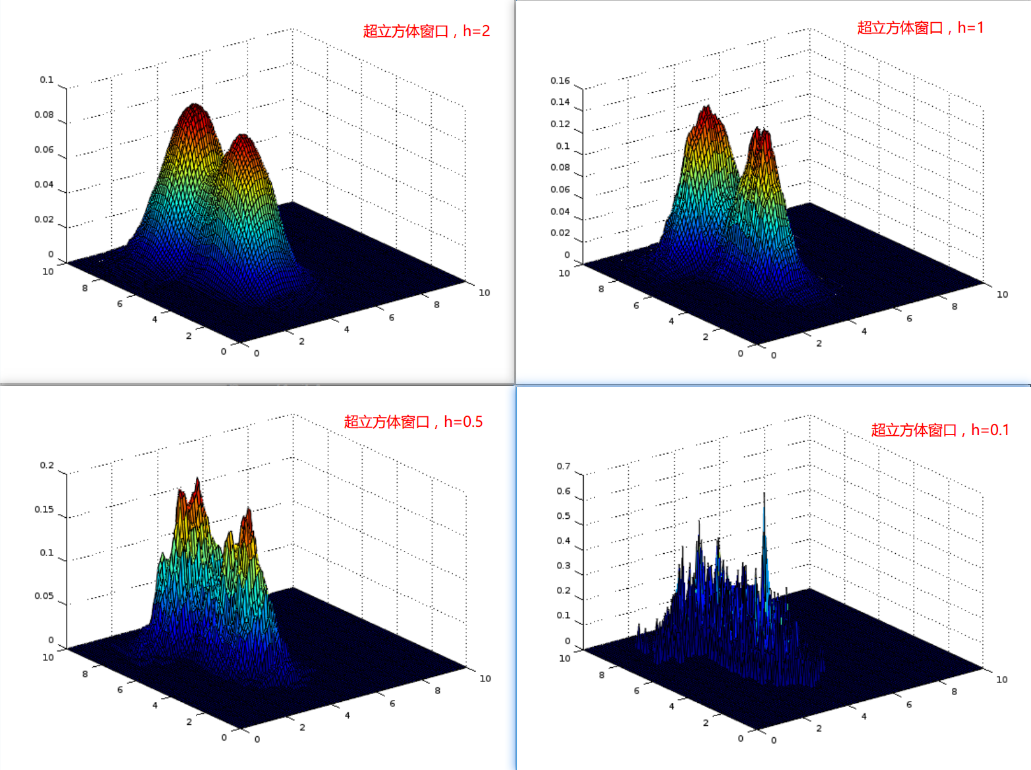
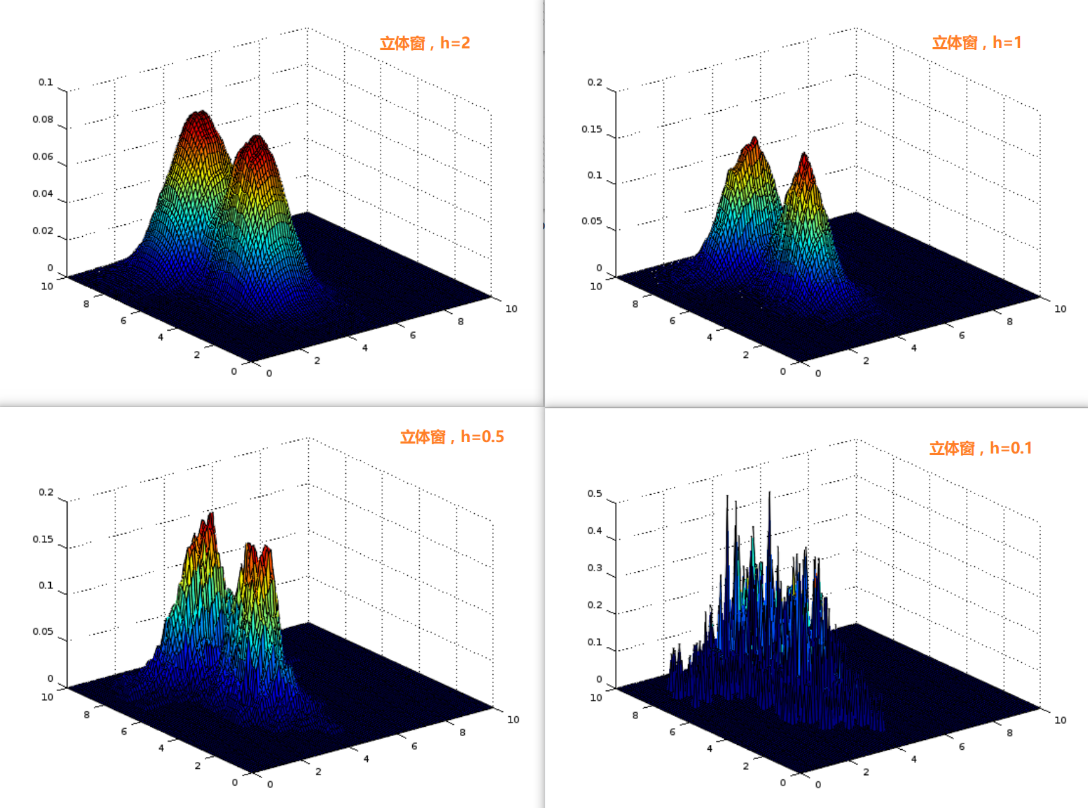
Site updated: 2017-10-08 10:41:41

diff --git a/2017/10/06/Parzen窗估计和Kn近邻估计/index.html b/2017/10/06/Parzen窗估计和Kn近邻估计/index.html
@@ -18,7 +18,7 @@
 <meta property="og:image" content="http://sujunhao.github.io/uploads/data/Parzen_立体.png">
 <meta property="og:image" content="http://sujunhao.github.io/uploads/data/Parzen_高斯.png">
 <meta property="og:image" content="http://sujunhao.github.io/uploads/data/Parzen_分类界面.png">
-<meta property="og:updated_time" content="2017-10-07T10:51:57.373Z">
+<meta property="og:updated_time" content="2017-10-08T02:40:35.649Z">
 <meta name="twitter:card" content="summary">
 <meta name="twitter:title" content="Parzen窗估计和Kn近邻估计">
 <meta name="twitter:description" content="非参数概率密度估计序：概率密度估计即从样本中估计总体的概率密度分布。进行概率密度估计的方法有参数估计与非参数估计。参数估计即在已知总体的分布函数形式的情况下对分布函数参数进行估计。如假如已知一总体呈正态分布，在取得样本的情况下，对总体的概率密度分布的估计就变成对总体的$\mu$ 和 $\sigma^2$ 进行估计。而在未知总体的分布函数形式的情况下，我们可以通过非参数概率密度估计方法对概率密度进行">
@@ -154,27 +154,28 @@
  \end{cases}$$</span><!-- Has MathJax -->
 <p>其中$\mu_j = |x_i - y_i|/h_n$, 则对于每个样本$x_i$，是否落入$x$附近就表达为$\varphi (\frac{x-x_i}{h_n})$，这样$P_n(A) = k/n = \frac{\sum\varphi (\frac{x-x_i}{h_n}) }{ｎ}$。令其等于$V_n \times p_n(x)$即有$p_n = \frac{\sum\varphi (\frac{x-x_i}{h_n}) }{ｎ}/V_n$。</p>
 <p>上式中$\varphi (\mu)$可以视为核函数，这样其便能使用其他核函数进行替代，例如使用高斯核函数。</p>
-<h3 id="Parzen窗函数实现"><a href="#Parzen窗函数实现" class="headerlink" title="Parzen窗函数实现"></a>Parzen窗函数实现</h3><p>窗口函数：$k = \sum\varphi (\frac{x-x_i}{h_n}) $。</p>
-<figure class="highlight plain"><table><tr><td class="gutter"><pre><div class="line">1</div><div class="line">2</div><div class="line">3</div><div class="line">4</div><div class="line">5</div><div class="line">6</div><div class="line">7</div><div class="line">8</div><div class="line">9</div><div class="line">10</div><div class="line">11</div><div class="line">12</div><div class="line">13</div><div class="line">14</div></pre></td><td class="code"><pre><div class="line"># 超立方体窗口</div><div class="line"># data 为 n*d, point 为1*d</div><div class="line">function [z] = w_hypercube(data, point, h_n)</div><div class="line">	u = (data - point) ./ h_n;</div><div class="line">	z = sum(all((abs(u) &lt;= 0.5), 2));</div><div class="line">end</div><div class="line"></div><div class="line"># 高斯窗口</div><div class="line">pkg load statistics;</div><div class="line">function [z] = w_normal(data, point, h_n)</div><div class="line">	[n, d] = size(data);</div><div class="line">	u = (data - point) ./ h_n;</div><div class="line">	z = sum(mvnpdf(u, ones(1, d), eye(d)));</div><div class="line">end</div></pre></td></tr></table></figure>
-<p>Parzen概率密度估计$p_n = \frac{k}{ｎ}/V_n =  \frac{\sum\varphi (\frac{x-x_i}{h_n}) }{ｎ}/V_n$。</p>
+<h3 id="Parzen窗函数实现"><a href="#Parzen窗函数实现" class="headerlink" title="Parzen窗函数实现"></a>Parzen窗函数实现</h3><p>原始的Parzen窗口函数即超立方体窗口是作用在每个样本点上的示性函数，对其进行推广转变为高斯窗口的形式为$\varphi_{\sigma} (\frac{x-x_i}{h_n}) = norm( (\frac{x-x_i}{h_n}), \mu,  \sum)$，其中$norm$为多元高斯概率分布函数，其中$x$的维度为$d$，且$\mu=(0,…,0)^t,  \sum=I_d$ 。</p>
+<p>根据窗口函数可以计算出样本中事件发生的次数$k = \sum\varphi (\frac{x-x_i}{h_n}) $。</p>
+<figure class="highlight plain"><table><tr><td class="gutter"><pre><div class="line">1</div><div class="line">2</div><div class="line">3</div><div class="line">4</div><div class="line">5</div><div class="line">6</div><div class="line">7</div><div class="line">8</div><div class="line">9</div><div class="line">10</div><div class="line">11</div><div class="line">12</div><div class="line">13</div><div class="line">14</div></pre></td><td class="code"><pre><div class="line"># 超立方体窗口</div><div class="line"># data 为 n*d, point 为1*d</div><div class="line">function [z] = w_hypercube(data, point, h_n)</div><div class="line">	u = (data - point) ./ h_n;</div><div class="line">	z = sum(all((abs(u) &lt;= 0.5), 2));</div><div class="line">end</div><div class="line"></div><div class="line"># 高斯窗口</div><div class="line">pkg load statistics;</div><div class="line">function [z] = w_normal(data, point, h_n)</div><div class="line">	[n, d] = size(data);</div><div class="line">	u = (data - point) ./ h_n;</div><div class="line">	z = sum(mvnpdf(u, zeros(1, d), eye(d)));</div><div class="line">end</div></pre></td></tr></table></figure>
+<p>有了$k$值，就可以计算概率密度，因此有Parzen概率密度估计方程$p_n = \frac{k}{ｎ}/V_n =  \frac{\sum\varphi (\frac{x-x_i}{h_n}) }{ｎ}/V_n$。</p>
 <figure class="highlight plain"><table><tr><td class="gutter"><pre><div class="line">1</div><div class="line">2</div><div class="line">3</div><div class="line">4</div><div class="line">5</div><div class="line">6</div><div class="line">7</div><div class="line">8</div><div class="line">9</div><div class="line">10</div></pre></td><td class="code"><pre><div class="line"># Parzen 函数</div><div class="line">#data is [n * d], dimension X number</div><div class="line">#point is [1 * d]</div><div class="line">#h_n is a scale</div><div class="line">function [pd] = parzen (data, point, h_n, f)</div><div class="line">  [n_data, d_data] = size(data);</div><div class="line">  pd = f(data, point, h_n) / (n_data * (h_n^d_data));</div><div class="line">end</div><div class="line"></div><div class="line">##	parzen(XX, [3, 4], 1, @w_hypercube)</div></pre></td></tr></table></figure>
-<h3 id="两类实验数据"><a href="#两类实验数据" class="headerlink" title="两类实验数据"></a>两类实验数据</h3><p>为了讨论Parzen窗函数的表现下面先来生成两类实验数据。</p>
-<figure class="highlight plain"><table><tr><td class="gutter"><pre><div class="line">1</div><div class="line">2</div><div class="line">3</div><div class="line">4</div><div class="line">5</div><div class="line">6</div><div class="line">7</div><div class="line">8</div><div class="line">9</div><div class="line">10</div><div class="line">11</div></pre></td><td class="code"><pre><div class="line">function [x] = create_norm(mu1, sigma1, mu2, sigma2, n)</div><div class="line">x = [normrnd(mu1, sigma1, 1, n); normrnd(mu2, sigma2, 1, n)]&apos;;</div><div class="line">end</div><div class="line"># X1为第一类，X2为第二类，XX为所有数据</div><div class="line"># X1为中心点在(5,4),sigma为(1,0.5),的服从正态分布的数据点，点数量使500</div><div class="line">X1 = create_norm(5, 1, 4, 0.5, 500);</div><div class="line">X2 = create_norm(8, 0.5, 4, 1, 500);</div><div class="line">XX = [X1;X2];</div><div class="line"></div><div class="line"># 画出数据分布</div><div class="line">plot(X1(:,1), X1(:,2), &apos;r+&apos;, X2(:,1), X2(:,2), &apos;ko&apos;);</div></pre></td></tr></table></figure>
+<h3 id="两类实验数据"><a href="#两类实验数据" class="headerlink" title="两类实验数据"></a>两类实验数据</h3><p>为了讨论Parzen窗函数的表现下面先来生成下面两类实验数据。</p>
+<figure class="highlight plain"><table><tr><td class="gutter"><pre><div class="line">1</div><div class="line">2</div><div class="line">3</div><div class="line">4</div><div class="line">5</div><div class="line">6</div><div class="line">7</div><div class="line">8</div><div class="line">9</div><div class="line">10</div><div class="line">11</div><div class="line">12</div><div class="line">13</div><div class="line">14</div><div class="line">15</div><div class="line">16</div><div class="line">17</div><div class="line">18</div></pre></td><td class="code"><pre><div class="line"># 生成二维高斯分布数据函数</div><div class="line">function [x] = create_norm(mu1, sigma1, mu2, sigma2, n)</div><div class="line">x = [normrnd(mu1, sigma1, 1, n); normrnd(mu2, sigma2, 1, n)]&apos;;</div><div class="line">end</div><div class="line"></div><div class="line"># X1为第一类，X2为第二类</div><div class="line"># X1为服从正态分布且中心点在(5,4),各分量sigma为(1,0.5)的数据，样本数量为500</div><div class="line"># 两类数据真实分布有重叠，如下图</div><div class="line">[mu11, s11, mu12, s12, n1] = deal(5, 1, 4, 0.5, 500);</div><div class="line">[mu21, s21, mu22, s22, n2] = deal(8, 0.5, 4, 1, 500);</div><div class="line">X1 = create_norm(mu11, s11, mu12, s12, n1);</div><div class="line">X2 = create_norm(mu21, s21, mu22, s22, n2);</div><div class="line"></div><div class="line"># 合并数据</div><div class="line">XX = [X1;X2];</div><div class="line"></div><div class="line"># 画出数据分布</div><div class="line">plot(X1(:,1), X1(:,2), &apos;r+&apos;, X2(:,1), X2(:,2), &apos;bo&apos;, mu11, mu12, &apos;+k&apos;, mu21, mu22, &apos;+k&apos;);</div></pre></td></tr></table></figure>
 <p><img src="/uploads/data/Parzen_数据分布_1.png" alt="Parzen_数据分布"></p>
-<h3 id="Parzen窗概率密度估计测试"><a href="#Parzen窗概率密度估计测试" class="headerlink" title="Parzen窗概率密度估计测试"></a>Parzen窗概率密度估计测试</h3><figure class="highlight plain"><table><tr><td class="gutter"><pre><div class="line">1</div><div class="line">2</div><div class="line">3</div><div class="line">4</div><div class="line">5</div><div class="line">6</div><div class="line">7</div><div class="line">8</div><div class="line">9</div><div class="line">10</div><div class="line">11</div><div class="line">12</div><div class="line">13</div><div class="line">14</div><div class="line">15</div><div class="line">16</div><div class="line">17</div><div class="line">18</div><div class="line">19</div><div class="line">20</div></pre></td><td class="code"><pre><div class="line">function [z] = test_parzen(XX, h, f)</div><div class="line">  x = 0:0.1:10;</div><div class="line">  y = x;</div><div class="line">  [X,Y] = meshgrid(x);</div><div class="line">  n = size(x, 2);</div><div class="line">  Z = zeros(n, n);</div><div class="line">  for i=1:n</div><div class="line">    for j=1:n</div><div class="line">      Z(i,j) = parzen(XX, [x(i), y(j)], h, f);</div><div class="line">    end</div><div class="line">  end</div><div class="line">  #Z_scale = (Z-min(Z(:))) ./ (max(Z(:)-min(Z(:))));</div><div class="line">  surf(X,Y,Z);</div><div class="line">end </div><div class="line"></div><div class="line"># 窗函数可用w_normal（高斯）， w_hypercube（超立方体窗口）</div><div class="line"># 宽度h取 0.1 ~ 2 进行测试</div><div class="line">f = @w_normal;</div><div class="line">h = 2;</div><div class="line">test_parzen(XX, h, f);</div></pre></td></tr></table></figure>
+<h3 id="Parzen窗概率密度估计测试"><a href="#Parzen窗概率密度估计测试" class="headerlink" title="Parzen窗概率密度估计测试"></a>Parzen窗概率密度估计测试</h3><p>下面先将两类数据合为总数据集，再查看Parzen概率密度估计的效果。</p>
+<figure class="highlight plain"><table><tr><td class="gutter"><pre><div class="line">1</div><div class="line">2</div><div class="line">3</div><div class="line">4</div><div class="line">5</div><div class="line">6</div><div class="line">7</div><div class="line">8</div><div class="line">9</div><div class="line">10</div><div class="line">11</div><div class="line">12</div><div class="line">13</div><div class="line">14</div><div class="line">15</div><div class="line">16</div><div class="line">17</div><div class="line">18</div><div class="line">19</div><div class="line">20</div><div class="line">21</div><div class="line">22</div><div class="line">23</div><div class="line">24</div></pre></td><td class="code"><pre><div class="line"># parzen函数测试，输入数据集，窗口宽度及窗口函数，输出概率密度分布平面图</div><div class="line">function [z] = test_parzen(XX, h, f)</div><div class="line">  #x,y 为构造的平面坐标</div><div class="line">  x = 0:0.1:10;</div><div class="line">  y = x;</div><div class="line">  [X,Y] = meshgrid(x);</div><div class="line">  n = size(x, 2);</div><div class="line">  Z = zeros(n, n);</div><div class="line">  for i=1:n</div><div class="line">    for j=1:n</div><div class="line">      #对平面中的每个点，计算其概率密度值</div><div class="line">      Z(i,j) = parzen(XX, [x(i), y(j)], h, f);</div><div class="line">    end</div><div class="line">  end</div><div class="line">  #Z_scale = (Z-min(Z(:))) ./ (max(Z(:)-min(Z(:))));</div><div class="line">  # 画平面图</div><div class="line">  surf(X,Y,Z);</div><div class="line">end </div><div class="line"></div><div class="line"># 窗函数可用w_normal（高斯）， w_hypercube（超立方体窗口）</div><div class="line"># 宽度h取 0.1 ~ 2 进行测试</div><div class="line">f = @w_hypercube;</div><div class="line">h = 1;</div><div class="line">test_parzen(XX, h, f);</div></pre></td></tr></table></figure>
 <p>超立方体窗口：</p>
 <p><img src="/uploads/data/Parzen_立体.png" alt="超立方体窗口"></p>
 <p>高斯窗口：</p>
 <p><img src="/uploads/data/Parzen_高斯.png" alt="parzen_norm"></p>
-<p>明显高斯窗比立方体窗平滑，并可以看出随着窗口宽度的减小，估计的概率值峰值增大，分布的广度变小。</p>
-<h3 id="基于Parzen窗估计的分类"><a href="#基于Parzen窗估计的分类" class="headerlink" title="基于Parzen窗估计的分类"></a>基于Parzen窗估计的分类</h3><p>由于Parzen窗估计能估计出概率密度值，在进行分类的时候，只要知道$P(w_i|x)$便可以根据观测值$x$在各种类别中进行分类（类别为$w_1, w2, …, w_c$）。根据贝叶斯公式$P(w_i|X) \propto P(w_i) \times P(X|w_i)$。因此可以通过Parzen窗口估计不同类别下的$P(x|w_i)$值，就可以知道后验$P(w_i|x)$概率值从而对样本$x$进行分类。</p>
-<p>使用以上生成的数据进行分类测试，上述样本X1,X2两个类别中各有500个样本点，故$P(w_1) = P(w_2) = 0.5$。于是有$P(w_i|X)\propto P(X|w_i)$，现在分别两个类别下进行概率密度估计 ，可以得到分类界面。</p>
-<figure class="highlight plain"><table><tr><td class="gutter"><pre><div class="line">1</div><div class="line">2</div><div class="line">3</div><div class="line">4</div><div class="line">5</div><div class="line">6</div><div class="line">7</div><div class="line">8</div><div class="line">9</div><div class="line">10</div><div class="line">11</div><div class="line">12</div><div class="line">13</div><div class="line">14</div><div class="line">15</div><div class="line">16</div><div class="line">17</div><div class="line">18</div><div class="line">19</div><div class="line">20</div><div class="line">21</div><div class="line">22</div><div class="line">23</div><div class="line">24</div></pre></td><td class="code"><pre><div class="line">function [z] = train_parzen(X1, X2, h, f)</div><div class="line">  x = 0:0.1:10;</div><div class="line">  y = x;</div><div class="line">  [X,Y] = meshgrid(x);</div><div class="line">  n = size(x, 2);</div><div class="line">  Z = zeros(n, n);</div><div class="line">  for i=1:n</div><div class="line">    for j=1:n</div><div class="line">      Z(i,j) = (parzen(X1, [x(i), y(j)], h, f) &gt; parzen(X2, [x(i), y(j)], h, f));</div><div class="line">    end</div><div class="line">  end</div><div class="line">  #Z_scale = (Z-min(Z(:))) ./ (max(Z(:)-min(Z(:))));</div><div class="line">  plot(X(Z(:)==0), Y(Z(:)==0), &apos;bo&apos;, X(Z(:)==1), Y(Z(:)==1), &apos;r.&apos;, 5, 4, &apos;+k&apos;, 8, 4, &apos;+k&apos;);</div><div class="line">end </div><div class="line"></div><div class="line"></div><div class="line">#plot(X(Z(:)==0), Y(Z(:)==0),&apos;.r&apos;,&apos;markersize&apos;, 20); </div><div class="line">#hold on </div><div class="line">#plot(X(Z(:)==1), Y(Z(:)==1),&apos;^b&apos;, &apos;markersize&apos;, 7); </div><div class="line"></div><div class="line">#f = @w_hypercube;</div><div class="line">f = @w_normal;</div><div class="line">h = 1;</div><div class="line">res = train_parzen(X1, X2, h, f);</div></pre></td></tr></table></figure>
-<p>在窗口宽度为1时，在不同的窗口函数下分类界面如下：</p>
+<p>明显高斯窗比立方体窗平滑，并可以看出随着窗口宽度的减小（从2降到0.5），估计的概率值峰值增大（高斯窗的峰值从0.02增大到0.18，立体窗的峰值从0.1增大到0.5），且分布的广度变小。</p>
+<h3 id="基于Parzen窗估计的分类"><a href="#基于Parzen窗估计的分类" class="headerlink" title="基于Parzen窗估计的分类"></a>基于Parzen窗估计的分类</h3><p>由于Parzen窗估计能估计出概率密度值，在进行分类的时候，只要知道$P(w_i|x)$便可以根据观测值$x$在各种类别中进行分类（类别为$w_1, w2, …, w_c$）。根据贝叶斯公式$P(w_i|X) \propto P(w_i) \times P(X|w_i)$。因此可以通过Parzen窗口估计不同类别下的$P(x|w_i)$值，就可以知道后验$P(w_i|x)$概率值从而对样本$x$进行分类。现在根据数据的类别标签将数据分为两个数据集，再分别在两个类别下进行概率密度估计 ，可以得到分类界面。</p>
+<figure class="highlight plain"><table><tr><td class="gutter"><pre><div class="line">1</div><div class="line">2</div><div class="line">3</div><div class="line">4</div><div class="line">5</div><div class="line">6</div><div class="line">7</div><div class="line">8</div><div class="line">9</div><div class="line">10</div><div class="line">11</div><div class="line">12</div><div class="line">13</div><div class="line">14</div><div class="line">15</div><div class="line">16</div><div class="line">17</div><div class="line">18</div><div class="line">19</div><div class="line">20</div><div class="line">21</div><div class="line">22</div><div class="line">23</div><div class="line">24</div><div class="line">25</div><div class="line">26</div><div class="line">27</div></pre></td><td class="code"><pre><div class="line">function [z] = train_parzen(X1, X2, h, f)</div><div class="line">  x = 0:0.1:10;</div><div class="line">  y = x;</div><div class="line">  [X,Y] = meshgrid(x);</div><div class="line">  n_1 = size(X1, 1);</div><div class="line">  n_2 = size(X2, 1);</div><div class="line">  n = size(x, 2);</div><div class="line">  Z = zeros(n, n);</div><div class="line">  for i=1:n</div><div class="line">    for j=1:n</div><div class="line">      Z(i, j) = parzen(X1, [x(i), y(j)], h, f)*n_1 &gt; parzen(X2, [x(i), y(j)], h, f)*n_2;</div><div class="line">    end</div><div class="line">  end</div><div class="line">  #Z_scale = (Z-min(Z(:))) ./ (max(Z(:)-min(Z(:))));</div><div class="line">  plot(X(Z(:)==0), Y(Z(:)==0), &apos;bo&apos;, X(Z(:)==1), Y(Z(:)==1), &apos;r.&apos;, 5, 4, &apos;+k&apos;, 8, 4, &apos;+k&apos;);</div><div class="line">end </div><div class="line"></div><div class="line"></div><div class="line">#plot(X(Z(:)==0), Y(Z(:)==0),&apos;.r&apos;,&apos;markersize&apos;, 20); </div><div class="line">#hold on </div><div class="line">#plot(X(Z(:)==1), Y(Z(:)==1),&apos;^b&apos;, &apos;markersize&apos;, 7); </div><div class="line"></div><div class="line"></div><div class="line">#f = @w_normal;</div><div class="line">f = @w_hypercube;</div><div class="line">h = 0.5;</div><div class="line">res = train_parzen(X1, X2, h, f);</div></pre></td></tr></table></figure>
+<p>在窗口宽度为0.5时，在不同的窗口函数下分类界面如下：</p>
 <p><img src="/uploads/data/Parzen_分类界面.png" alt="Parzen_分类界面"></p>
-<p>可以看出在两个类别分布类似且有重叠时用超立方函数将两类分开较好，但出现了把边缘区域全归一类的情况。</p>
+<p>从图上的效果来看，直接用Parzen窗得到的分类效果在泛化时效果不好，因为很多边缘区域并不能很好的分类（若考虑拒识的情况则会有大量空白），这是因为Parzen窗的到的概率值完全取决于其周边数据的分布，若周围样本稀疏，Parzen窗函数并不能得到一个合适的概率值。进一步可以看出在两个类别分布类似且有重叠时用超立方函数将两类分开较好。</p>
 <h4 id="实际测试"><a href="#实际测试" class="headerlink" title="实际测试"></a>实际测试</h4><p>下面由原分布生成数据进行测试，比较在不同的窗口函数和窗口宽度下分类的正确率。</p>
-<figure class="highlight plain"><table><tr><td class="gutter"><pre><div class="line">1</div><div class="line">2</div><div class="line">3</div><div class="line">4</div><div class="line">5</div><div class="line">6</div><div class="line">7</div><div class="line">8</div><div class="line">9</div><div class="line">10</div><div class="line">11</div><div class="line">12</div><div class="line">13</div><div class="line">14</div><div class="line">15</div><div class="line">16</div><div class="line">17</div><div class="line">18</div><div class="line">19</div><div class="line">20</div><div class="line">21</div><div class="line">22</div><div class="line">23</div><div class="line">24</div><div class="line">25</div><div class="line">26</div><div class="line">27</div></pre></td><td class="code"><pre><div class="line"># 生成测试数据</div><div class="line">Y1 = create_norm(5, 1, 4, 0.5, 100);</div><div class="line">Y2 = create_norm(8, 0.5, 4, 1, 100);</div><div class="line">Y = [Y1;Y2];</div><div class="line">class_Y = [ones(100, 1); zeros(100, 1)];</div><div class="line"># 预测类别</div><div class="line">function [z] = predict_parzen(X1, X2, x, h, f)</div><div class="line">  n = size(x, 1);</div><div class="line">  P = zeros(n, 1);</div><div class="line">  for i=1:n</div><div class="line">  	point = [x(i, 1), x(i, 2)];</div><div class="line">  	# 1 if predict to class X1</div><div class="line">	P(i) = (parzen(X1, point, h, f) &gt; parzen(X2, point, h, f));</div><div class="line">  end</div><div class="line">  #Z_scale = (Z-min(Z(:))) ./ (max(Z(:)-min(Z(:))));</div><div class="line">  z = P;</div><div class="line">end </div><div class="line"></div><div class="line">function [z] = pre_rate(Y, pre_Y)</div><div class="line">	z = sum(Y == pre_Y) / size(Y, 1);</div><div class="line">end</div><div class="line"></div><div class="line">f = @w_hypercube;</div><div class="line">#f = @w_normal;</div><div class="line">h = 0.5;</div><div class="line">pre_Y = predict_parzen(X1, X2, Y, h, f);</div><div class="line">pre_rate(class_Y, pre_Y)</div></pre></td></tr></table></figure>
+<figure class="highlight plain"><table><tr><td class="gutter"><pre><div class="line">1</div><div class="line">2</div><div class="line">3</div><div class="line">4</div><div class="line">5</div><div class="line">6</div><div class="line">7</div><div class="line">8</div><div class="line">9</div><div class="line">10</div><div class="line">11</div><div class="line">12</div><div class="line">13</div><div class="line">14</div><div class="line">15</div><div class="line">16</div><div class="line">17</div><div class="line">18</div><div class="line">19</div><div class="line">20</div><div class="line">21</div><div class="line">22</div><div class="line">23</div><div class="line">24</div><div class="line">25</div><div class="line">26</div><div class="line">27</div><div class="line">28</div><div class="line">29</div></pre></td><td class="code"><pre><div class="line"># 生成测试数据</div><div class="line">Y1 = create_norm(5, 1, 4, 0.5, 100);</div><div class="line">Y2 = create_norm(8, 0.5, 4, 1, 100);</div><div class="line">Y = [Y1;Y2];</div><div class="line">class_Y = [ones(100, 1); zeros(100, 1)];</div><div class="line"># 预测类别</div><div class="line">function [z] = predict_parzen(X1, X2, x, h, f)</div><div class="line">  n = size(x, 1);</div><div class="line">  P = zeros(n, 1);</div><div class="line">  n_1 = size(X1, 1);</div><div class="line">  n_2 = size(X2, 1);</div><div class="line">  for i=1:n</div><div class="line">  	point = [x(i, 1), x(i, 2)];</div><div class="line">  	# 1 if predict to class X1</div><div class="line">	P(i) = (parzen(X1, point, h, f)*n_1 &gt; parzen(X2, point, h, f)*n_2);</div><div class="line">  end</div><div class="line">  #Z_scale = (Z-min(Z(:))) ./ (max(Z(:)-min(Z(:))));</div><div class="line">  z = P;</div><div class="line">end </div><div class="line"></div><div class="line">function [z] = pre_rate(Y, pre_Y)</div><div class="line">	z = sum(Y == pre_Y) / size(Y, 1);</div><div class="line">end</div><div class="line"></div><div class="line">#f = @w_hypercube;</div><div class="line">f = @w_normal;</div><div class="line">h = 1;</div><div class="line">pre_Y = predict_parzen(X1, X2, Y, h, f);</div><div class="line">pre_rate(class_Y, pre_Y)</div></pre></td></tr></table></figure>
 <p>测试结果：</p>
 <table>
 <thead>
@@ -188,26 +189,26 @@
 <tr>
 <td>normal</td>
 <td>1</td>
-<td>0.89</td>
+<td>0.960</td>
 </tr>
 <tr>
 <td>超立方体</td>
 <td>1</td>
-<td>0.99</td>
+<td>0.970</td>
 </tr>
 <tr>
 <td>normal</td>
 <td>0.5</td>
-<td>0.96</td>
+<td>0.970</td>
 </tr>
 <tr>
 <td>超立方体</td>
 <td>0.5</td>
-<td>0.99</td>
+<td>0.965</td>
 </tr>
 </tbody>
 </table>
-<p>从结果来看使用立方体窗口的预测效果好于高斯窗口的情况，但是在设置不同的窗口宽度后高斯窗口预测准确率有提高。</p>
+<p>从结果来看使用立方体窗口的预测效果略好于高斯窗口的情况，但是差别并不大。两种窗口对样本的分类效果都较好$\geq 95%$，这点如果单从分类界面是看不出来的。</p>
 <h2 id="Kn近邻估计"><a href="#Kn近邻估计" class="headerlink" title="Kn近邻估计"></a>Kn近邻估计</h2><p>待续</p>
 <h2 id="参考"><a href="#参考" class="headerlink" title="参考"></a>参考</h2><ol>
 <li><a href="http://www.byclb.com/TR/Tutorials/neural_networks/ch11_1.htm" target="_blank" rel="external">http://www.byclb.com/TR/Tutorials/neural_networks/ch11_1.htm</a></li>
